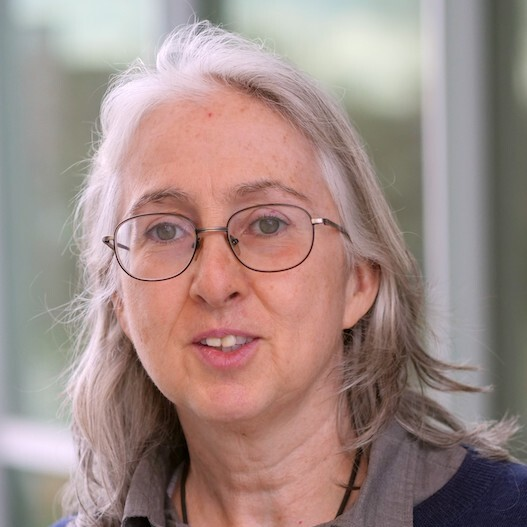
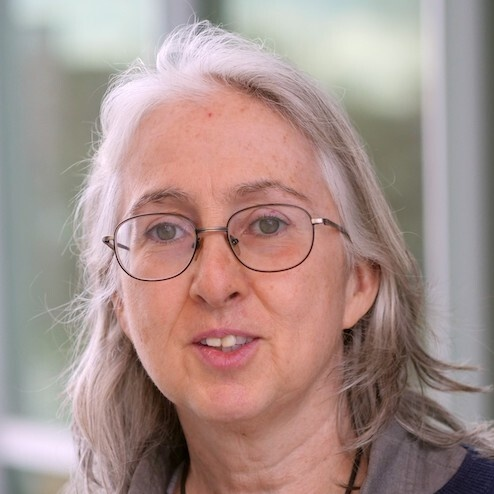
SO MANY CHANGES

diff --git a/styles.css b/styles.css
@@ -5,8 +5,6 @@
     --link-colour: #5EE9C5;
 }
 
-
-
 * {
     margin: 0;
     padding: 0;
@@ -199,6 +197,8 @@ h1 {
 #rotate {
     color: var(--link-colour);
     margin-top: 0;
+    display: block;
+    margin-bottom: 5px;
 }
 
 #learn-more {
@@ -242,7 +242,8 @@ h1 {
 /* ---------------------------------------------------------------------- */
 
 footer {
-    width: 100%;
+
+    margin-left: ;
     /* height: 100px; */
     text-align: center;
     /*position:absolute; */
@@ -306,7 +307,7 @@ footer {
 
 /* For screens smaller than 768px */
 
-@media (max-width: 768px) {
+@media (max-width: 1000px) {
     .aboutus-container {
         flex-direction: column;
         /* Change the flex-direction */
@@ -320,9 +321,16 @@ footer {
     }
     .section-1 {
         order: 2;
+        margin-bottom: 100px;
+        margin-top: 50px;
     }
     .section-2 {
         order: 1;
+        padding: 0;
+        margin-bottom: 0 !important;
+    }
+    body > div.aboutus-container.aos-init.aos-animate > div.section-2 > h1 {
+        text-align: left !important;
     }
 }
 
@@ -332,9 +340,10 @@ footer {
 @media (min-width: 768px) {
     .section-2 {
         margin-top: 120px;
-        padding: 80px;
+        padding: 0px;
         margin-bottom: 120px;
     }
+    
     .section-1 {
         margin-top: 20px;
     }
@@ -390,6 +399,7 @@ footer {
     border-radius: 5px;
     padding: 5px 20px;
     cursor: pointer;
+    align-content: left;
 }
 
 .right .box {
@@ -402,6 +412,7 @@ footer {
 
 body>div.content.aos-init.aos-animate>div.right>div>p {
     margin-bottom: 15px;
+    line-height: 1.8;
 }
 
 body>div.content.aos-init.aos-animate>div.right>div>p.title {
@@ -520,12 +531,15 @@ body>div.content.aos-init.aos-animate>div.right>div>p.title {
 }
 
 #team-container {
-    flex-basis: calc(100% / 3);
-    /* set the width of each team-container to 1/3 of the screen */
+    flex-basis: calc((100% / 3) - 40px);
     box-sizing: border-box;
-    /* include padding and border in the width calculation */
-    padding: 20px;
     margin-bottom: 200px;
+}
+
+.middle {
+    flex-basis: calc(33.33%) ;
+    margin-left: 60px;
+    margin-right: 60px;
 }
 
 #small-title,
@@ -536,8 +550,12 @@ body>div.content.aos-init.aos-animate>div.right>div>p.title {
     margin-top: 0;
 }
 
+.title-container {
+    flex-basis: 100%;
+}
+
 #small-title {
-    margin-bottom: 15px;
+    margin-bottom: 5px;
 }
 
 #small-title {
@@ -551,6 +569,7 @@ body>div.content.aos-init.aos-animate>div.right>div>p.title {
 
 #team-container img {
     width: 100%;
+    height:auto;
 }
 
 h6 {
@@ -574,6 +593,7 @@ h6 {
 #team-container p {
     font-size: 14px;
     margin-bottom: 20px;
+    line-height: 1.6;
 }
 
 .page-break {
@@ -621,7 +641,7 @@ h6 {
 .left-culture p {
     font-size: 14px;
     margin-bottom: 20px;
-    line-height: 1.8;
+    line-height: 1.6;
 }
 
 .general-containerse {
@@ -721,10 +741,15 @@ input[type=submit]:hover {
     background-color: #45a049;
 }
 
+
+
 @media (max-width:900px) {
     #team-container {
         flex: 1 1 100%;
         margin-bottom: 10px;
+        max-width: 450px;
+        display: block;
+        margin: 0 auto; 
     }
     #team-container img {
         border: 1px solid var(--link-colour);
@@ -742,6 +767,15 @@ input[type=submit]:hover {
     .right-culture img {
         width: 250px;
         height: 250px;
+    }
+}
+
+@media (max-width:900px) {
+    .box > p, .right .box, .left h1 {
+        text-align: left;
+    }
+    body > div.aboutus-container > div.section-2 > h1{
+        text-align: left !important;
     }
 }
 
@@ -1291,6 +1325,8 @@ section {
     text-align: left;
     font: bold 16px 'Poppins';
     padding: 55px 50px;
+    display: block;
+    margin: 0 auto;
 }
 
 .thevisionaries-footer .footer-left,
@@ -1364,6 +1400,10 @@ section {
     font-weight: 400;
     vertical-align: middle;
     margin: 0;
+}
+
+body > footer > div.footer-left > p.footer-links > a {
+    font-size: 14px;
 }
 
 .thevisionaries-footer .footer-center p span {
@@ -1447,6 +1487,9 @@ section {
     .thevisionaries-footer .footer-center i {
         margin-left: 0;
     }
+    .footer-center, .footer-right {
+        display: none !important;
+    }
 }
 
 
@@ -1463,5 +1506,24 @@ body>div.aboutus-container.aos-init.aos-animate>div.section-2>h1 {
 
 .complete-container {
     max-width: 100%;
+}   
+
+@media (max-width: 1000px) {
+    .footer-center {
+        display: none;
+    }
 }
 
+#learn-more:hover, body > div.content.aos-init.aos-animate > div.right > div > a > button:hover {
+    background-color: #5EE9C5;
+    color: #0D1A2D;
+    transition: 0.5s;
+    cursor: pointer;
+}
+
+body > header > nav > ul > li.Join:hover, body > header > nav > ul > li.Join > a:hover {
+    background-color: #ffffff;
+    color: #0D1A2D;
+    transition: 0.5s;
+    cursor: pointer;
+}

diff --git a/index.html b/index.html
@@ -158,11 +158,14 @@
     <hr class="main-page-break">
 
     <div class="page-container" data-aos="fade-in">
-        <h2 id="small-title"> Who are we? </h2>
-        <h1 id="large-title">Meet out Team</h1>
+
+        <div class="title-container">
+            <h2 id="small-title"> Who are we? </h2>
+            <h1 id="large-title">Meet out Team</h1>
+        </div>
 
         <div id="team-container">
-            <img src="../images/peter.jpeg" alt="" width="300" height="350">
+            <img src="../images/peter.jpeg" alt="">
             <h6 id="text-important" class="bold">Peter Yassopoulos </h6>
             <h6>Founder and Owner</h6>
             <p>A founder is the visionary behind a company,
@@ -170,8 +173,8 @@
                 An owner holds legal and financial control, taking responsibility
                 for the organization's success, growth, and strategic direction.</p>
         </div>
-        <div id="team-container">
-            <img src="../images/laura.jpg" alt="" width="300" height="350">
+        <div id="team-container" class="middle">
+            <img src="../images/laura.jpg" alt="">
             <h6 id="text-important">Laura Prendergeist </h6>
             <h6>Founder and Owner</h6>
             <p>Co-founders are entrepreneurial,
@@ -219,6 +222,7 @@
 
   </div>
   <hr style="margin-bottom: 50px"> -->
+
 
     <footer class="thevisionaries-footer">
 
